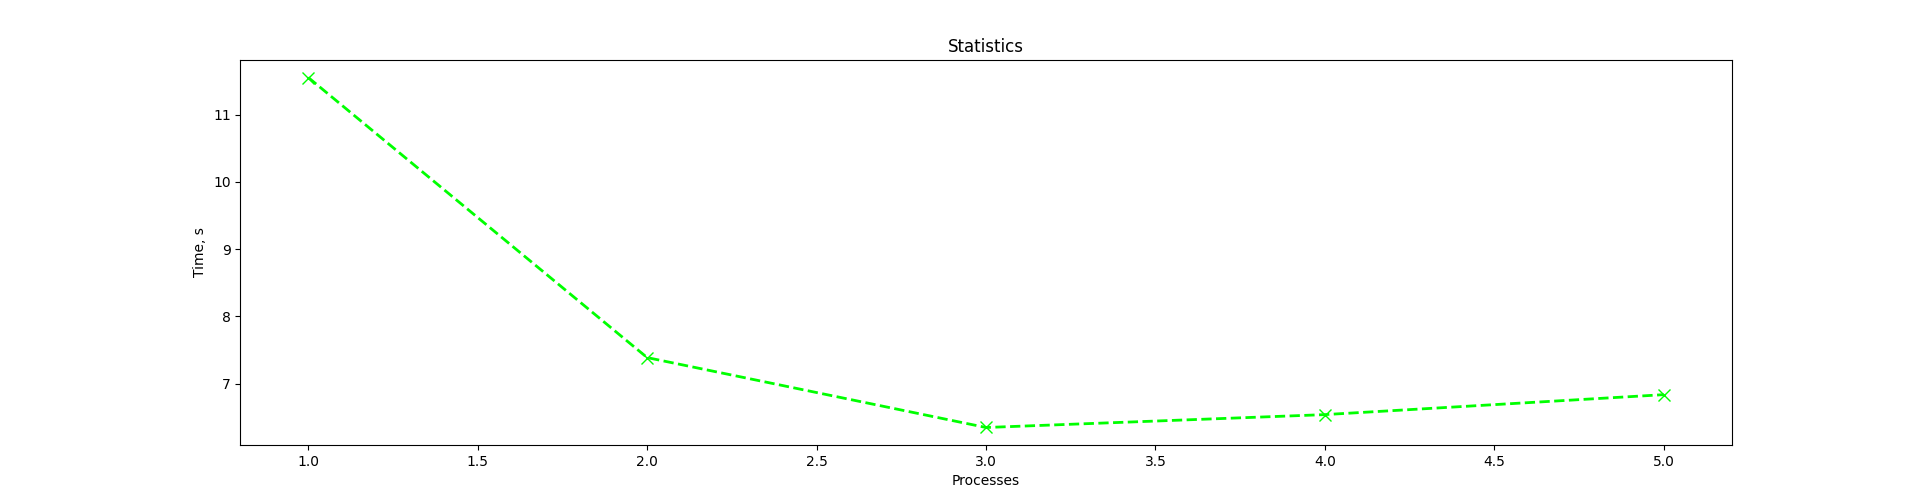
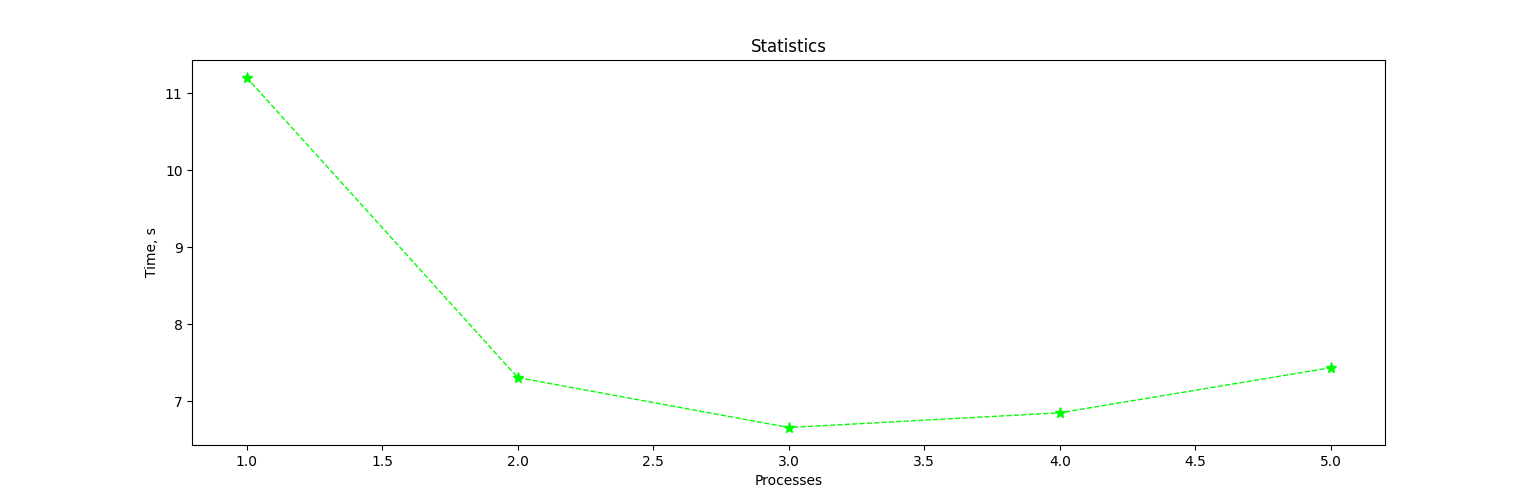
add docstring

diff --git a/lab_4/lab_4/functions.py b/lab_4/lab_4/functions.py
@@ -7,14 +7,36 @@ from matplotlib import pyplot as plt
 from tqdm import tqdm
 
 
-def check_card_number(part: int, bins: list, last_digit: int, original_hash: str) -> str | None:
+def check_card_number(part: int, bins: list, last_digit: int, original_hash: str) -> str:
+    """
+    Checks if the given part of the card number can be the full card number.
+
+    Parameters
+        part: The part of the card number to check.
+        bins: A list of possible card number prefixes (BINs).
+        last_digit: The last digit of the card number.
+        original_hash:The hash value of the full card number to find a match for.
+    Returns
+        The full card number
+    """
     for card_bin in bins:
         card_number = f"{card_bin}{str(part).zfill(6)}{last_digit}"
         if hashlib.sha256(card_number.encode()).hexdigest() == original_hash:
             return card_number
 
 
-def get_card_number(original_hash: str, bins: list, last_digit: int, count_process: int = mp.cpu_count()):
+def get_card_number(original_hash: str, bins: list, last_digit: int, count_process: int = mp.cpu_count()) -> str:
+    """
+    Finds the full card number by checking all possible combinations of the given parameters.
+
+    Parameters:
+        original_hash: The hash value of the full card number to find a match for.
+        bins: A list of possible card number prefixes (BINs).
+        last_digit: The last digit of the card number.
+        count_process: The number of processes to use for the search. Defaults to the number of CPUs available.
+    Returns:
+        The full card number
+    """
     with mp.Pool(count_process) as p:
         for result in p.starmap(check_card_number,
                                 [(i, bins, last_digit, original_hash) for i in list(range(0, 999999))]):
@@ -25,6 +47,14 @@ def get_card_number(original_hash: str, bins: list, last_digit: int, count_proce
 
 
 def luhn_algorithm(card_number: str) -> bool:
+    """
+    Validates a credit card number using the Luhn algorithm.
+
+    Parameters:
+        card_number: The credit card number to validate.
+    Returns:
+        True if the credit card number is valid, False otherwise.
+    """
     digits = [int(digit) for digit in reversed(card_number)]
     for i in range(1, len(digits), 2):
         digits[i] *= 2
@@ -34,6 +64,14 @@ def luhn_algorithm(card_number: str) -> bool:
 
 
 def graphing(original_hash: str, bins: list, last_digit: int) -> None:
+    """
+    Plots a graph of the execution time of the `get_card_number` function based on the number of processes used.
+
+    Parameters:
+        original_hash: The hash value of the full card number to find a match for.
+        bins: A list of possible card number prefixes (BINs).
+        last_digit: The last digit of the card number.
+    """
     time_list = list()
     for count_process in tqdm(range(1, int(mp.cpu_count() * 1.5)), desc="Finding a collision"):
         start_time = time.time()
@@ -43,15 +81,14 @@ def graphing(original_hash: str, bins: list, last_digit: int) -> None:
     plt.ylabel('Time, s')
     plt.xlabel('Processes')
     plt.title("Statistics")
-    plt.plot(range(1, int(mp.cpu_count() * 1.5)), time_list, color='lime', linestyle='--', marker='x',
-             linewidth=2, markersize=8)
+    plt.plot(range(1, int(mp.cpu_count() * 1.5)), time_list, color='lime', linestyle='--', marker='*',
+             linewidth=1, markersize=8)
     plt.show()
 
 
 if __name__ == "__main__":
-    setting = working_with_a_file.read_json("parametrs.json")
[1 lines of base64/hex data omitted]
-    b = [413064, 415028, 427230, 427275, 429749, 446674, 462017, 462043, 489327]
-    #graphing(o_h, b, 1378)
-
-    get_card_number(o_h, b, 1378, )
+    setting = working_with_a_file.read_json("parametrs_card.json")
+    number = working_with_a_file.read_json("card.json")
+    print(f"The card number is correct: {luhn_algorithm(number["card_number"])}")
+    graphing(setting["hash"], setting["bins"], setting["last_numbers"])
+    get_card_number(setting["hash"], setting["bins"], setting["last_numbers"])

diff --git a/lab_4/lab_4/main_window.py b/lab_4/lab_4/main_window.py
@@ -8,6 +8,10 @@ from PyQt5.QtWidgets import (QApplication, QInputDialog, QFileDialog, QMainWindo
 
 class MainWindow(QMainWindow):
     def __init__(self):
+        """
+        Initializes the MainWindow class, sets the window size and title,
+        and creates the central widget with various UI elements.
+        """
         super().__init__()
 
         self.resize(500, 300)
@@ -43,7 +47,6 @@ class MainWindow(QMainWindow):
         hbox.addWidget(self.btn_bins)
         hbox.addWidget(self.btn_hash_card)
         hbox.addWidget(self.btn_last_number)
-
         self.centralWidget.setLayout(hbox)
 
         self.setStyleSheet('background-color: #B0FFD9;')
@@ -51,6 +54,10 @@ class MainWindow(QMainWindow):
         self.show()
 
     def find_number(self) -> None:
+        """
+        Handles the logic to find the card number based on the provided hash value, BINs, and last digit.
+        If a valid card number is found, it is saved to a file. If not, a message is displayed.
+        """
         bins = self.btn_bins.text().split(",")
         hash_card = self.btn_hash_card.text()
         last_number = self.btn_last_number.text()
@@ -87,6 +94,11 @@ class MainWindow(QMainWindow):
             )
 
     def luna_alg(self) -> None:
+        """
+        Handles the logic to check the validity of a card number using the Luhn algorithm.
+        The user is prompted to enter a card number,
+        and a message is displayed based on the result of the Luhn algorithm check.
+        """
         card_number = QInputDialog.getText(
             self, "Enter the card number", "Card number:"
         )
@@ -106,6 +118,11 @@ class MainWindow(QMainWindow):
             )
 
     def graph_draw(self) -> None:
+        """
+        Handles the logic to generate a graph showing the execution time of the `get_card_number` function based
+        on the number of processes used.
+        The user is required to provide the necessary input parameters (hash, BINs, last digit).
+        """
         bins = self.btn_bins.text().split(",")
         hash_card = self.btn_hash_card.text()
         last_digit = self.btn_last_number.text()
@@ -131,6 +148,10 @@ class MainWindow(QMainWindow):
         functions.graphing(hash_card, bins, last_digit)
 
     def close_event(self):
+        """
+        Handles the logic to close the application when the user clicks the "Exit" button.
+        The user is prompted to confirm the exit action.
+        """
         reply = QMessageBox.question(self, 'Message', "Are you sure to quit?",
                                      QMessageBox.Yes | QMessageBox.No)
 

diff --git a/lab_4/lab_4/working_with_a_file.py b/lab_4/lab_4/working_with_a_file.py
@@ -21,6 +21,13 @@ def read_json(path: str) -> dict:
 
 
 def write_file(path: str, data: list) -> None:
+    """
+    A function for writing data to a file.
+
+    Parameters
+        path: the path to the file to write
+        data: data to write to a file
+    """
     try:
         with open(path, "w", encoding="UTF-8") as file:
             json.dump({"card_number":  data}, file)
